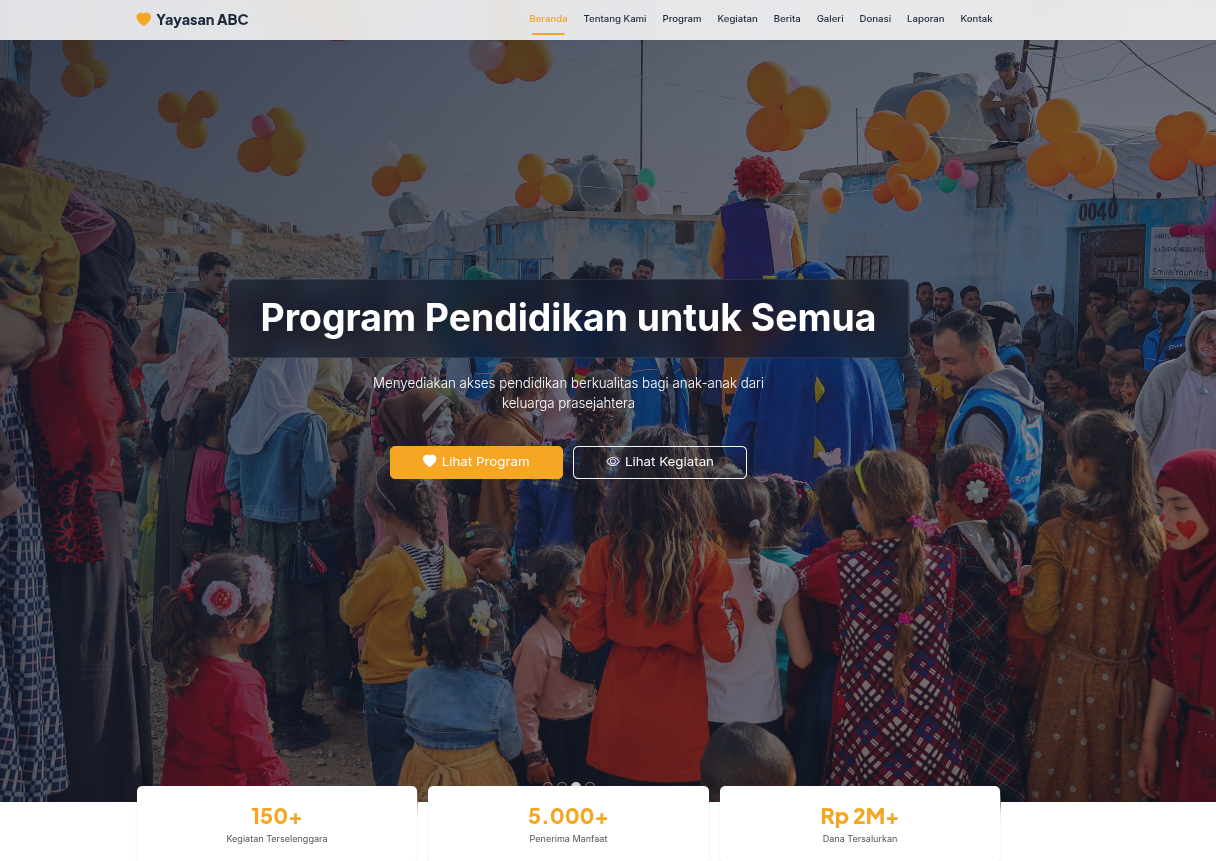
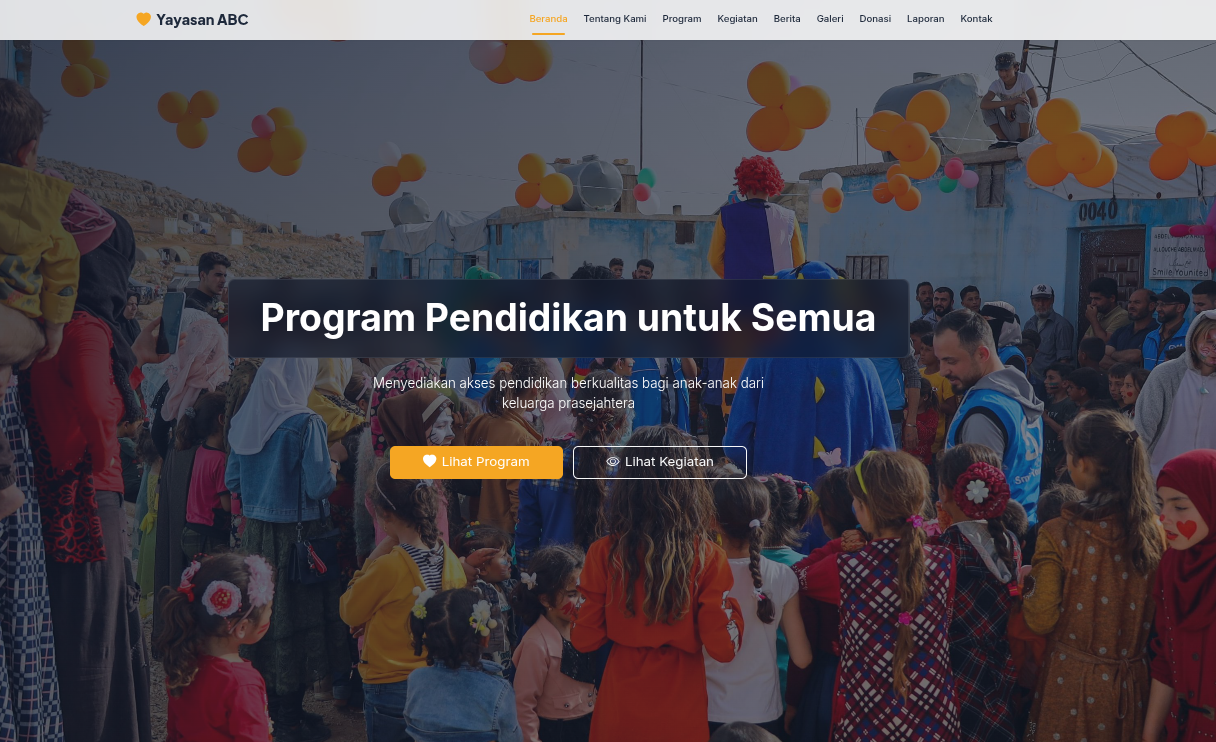
update web yayasan donasi

diff --git a/shop.html b/shop.html
@@ -81,8 +81,11 @@
     </div>
     <div class="shop-grid">
       <article class="shop-card shop-card--donation" data-tag-id="Yayasan" data-tag-en="Foundation" data-donation="true" data-feat-id="2 sisi: Publik + Admin CMS|4 role dengan hak akses|21 modul admin CRUD|Sistem donasi + verifikasi|Kalender kegiatan|Navigasi dinamis dari DB|Upload file (gambar, dokumen, bukti)|Docker-ready monorepo" data-feat-en="2 sides: Public + Admin CMS|4 roles with access control|21 admin CRUD modules|Donation system + verification|Activity calendar|Dynamic DB navigation|File upload (image, doc, proof)|Docker-ready monorepo">
-        <!-- Thumbnail gambar opsional: tambahkan data-img="assets/img/nama-file.jpg" pada .shop-thumb (atau nest <img class="shop-thumb-img">). Jika gambar tidak ada/gagal dimuat, thumbnail teks default tetap tampil. -->
-        <img class="shop-thumb-img" data-src="assets/img/web_yayasan.png" alt="Website Yayasan" loading="lazy">
+        <!-- Thumbnail gambar opsional: tambahkan data-img="assets/img/nama-file.jpg" pada .shop-thumb, atau nest <img class="shop-thumb-img" src="..."> (data-src juga didukung). Teks thumbnail harus berada di <span class="shop-thumb-text" data-id="..." data-en="..."> agar tidak terhapus i18n. Jika gambar tidak ada/gagal dimuat, thumbnail teks default tetap tampil. -->
+        <div class="shop-thumb">
+          <img class="shop-thumb-img" data-src="assets/img/web_yayasan.png" alt="Website Yayasan" loading="lazy">
+          <span class="shop-thumb-text" data-id="Website Yayasan" data-en="Nurul Jannah Foundation Web">Website Yayasan</span>
+        </div>
         <span class="shop-tag" data-id="Yayasan" data-en="Foundation">Yayasan</span>
         <h4 data-id="Website Yayasan" data-en="Nurul Jannah Foundation Web">Website Yayasan</h4>
         <p data-id="Sistem Informasi Manajemen Kegiatan Yayasan berbasis CodeIgniter 4. Donasi minimal Rp 50.000." data-en="Foundation Activity Management System based on CodeIgniter 4. Minimum donation Rp 50.000.">Sistem Informasi Manajemen Kegiatan Yayasan berbasis CodeIgniter 4. Donasi minimal Rp 50.000.</p>
@@ -96,7 +99,7 @@
         </div>
       </article>
       <article class="shop-card" data-tag-id="Sistem Kasir" data-tag-en="Cashier System" data-feat-id="Pencatatan penjualan & retur|Cetak struk A4/thermal|Laporan penjualan harian|Manajemen stok sederhana" data-feat-en="Sales & return logging|A4/thermal receipt printing|Daily sales reports|Simple stock management">
-        <div class="shop-thumb" data-id="POS Kasir Pro" data-en="POS Cashier Pro">POS Kasir Pro</div>
+        <div class="shop-thumb"><span class="shop-thumb-text" data-id="POS Kasir Pro" data-en="POS Cashier Pro">POS Kasir Pro</span></div>
         <span class="shop-tag" data-id="Sistem Kasir" data-en="Cashier System">Sistem Kasir</span>
         <h4 data-id="POS Kasir Pro" data-en="POS Cashier Pro">POS Kasir Pro</h4>
         <p data-id="Sistem kasir lengkap untuk toko, warung, dan UMKM dengan laporan harian." data-en="Complete cashier system for shops, stalls, and SMEs with daily reports.">Sistem kasir lengkap untuk toko, warung, dan UMKM dengan laporan harian.</p>
@@ -106,7 +109,7 @@
         </div>
       </article>
       <article class="shop-card" data-tag-id="Inventory" data-tag-en="Inventory" data-feat-id="Multi-gudang|Mutasi & transfer stok|Notifikasi stok menipis|Laporan nilai persediaan" data-feat-en="Multi-warehouse|Stock transfer & mutation|Low-stock alerts|Inventory value reports">
-        <div class="shop-thumb" data-id="Sistem Manajemen Inventori" data-en="Inventory Management System">Sistem Manajemen Inventori</div>
+        <div class="shop-thumb"><span class="shop-thumb-text" data-id="Sistem Manajemen Inventori" data-en="Inventory Management System">Sistem Manajemen Inventori</span></div>
         <span class="shop-tag" data-id="Inventory" data-en="Inventory">Inventory</span>
         <h4 data-id="Sistem Manajemen Inventori" data-en="Inventory Management System">Sistem Manajemen Inventori</h4>
         <p data-id="Kelola stok multi-gudang, mutasi barang, dan peringatan stok menipis." data-en="Manage multi-warehouse stock, item transfers, and low-stock alerts.">Kelola stok multi-gudang, mutasi barang, dan peringatan stok menipis.</p>
@@ -116,7 +119,7 @@
         </div>
       </article>
       <article class="shop-card" data-tag-id="Booking" data-tag-en="Booking" data-feat-id="Kalender jadwal|Notifikasi otomatis|Manajemen pelanggan|Integrasi WhatsApp" data-feat-en="Schedule calendar|Automatic notifications|Customer management|WhatsApp integration">
-        <div class="shop-thumb" data-id="Aplikasi Booking Online" data-en="Online Booking App">Aplikasi Booking Online</div>
+        <div class="shop-thumb"><span class="shop-thumb-text" data-id="Aplikasi Booking Online" data-en="Online Booking App">Aplikasi Booking Online</span></div>
         <span class="shop-tag" data-id="Booking" data-en="Booking">Booking</span>
         <h4 data-id="Aplikasi Booking Online" data-en="Online Booking App">Aplikasi Booking Online</h4>
         <p data-id="Reservasi jadwal untuk klinik, jasa, dan rental secara mandiri." data-en="Self-service schedule reservations for clinics, services, and rentals.">Reservasi jadwal untuk klinik, jasa, dan rental secara mandiri.</p>
@@ -126,7 +129,7 @@
         </div>
       </article>
       <article class="shop-card" data-tag-id="Pendidikan" data-tag-en="Education" data-feat-id="Input nilai & rapor|Presensi siswa|Jadwal pelajaran|Portal orang tua" data-feat-en="Grades & report cards|Student attendance|Class schedules|Parent portal">
-        <div class="shop-thumb" data-id="Sistem Akademik Sekolah" data-en="School Academic System">Sistem Akademik Sekolah</div>
+        <div class="shop-thumb"><span class="shop-thumb-text" data-id="Sistem Akademik Sekolah" data-en="School Academic System">Sistem Akademik Sekolah</span></div>
         <span class="shop-tag" data-id="Pendidikan" data-en="Education">Pendidikan</span>
         <h4 data-id="Sistem Akademik Sekolah" data-en="School Academic System">Sistem Akademik Sekolah</h4>
         <p data-id="Nilai, presensi, dan jadwal untuk guru, siswa, dan orang tua." data-en="Grades, attendance, and schedules for teachers, students, and parents.">Nilai, presensi, dan jadwal untuk guru, siswa, dan orang tua.</p>
@@ -136,7 +139,7 @@
         </div>
       </article>
       <article class="shop-card" data-tag-id="WebGIS" data-tag-en="WebGIS" data-feat-id="Peta interaktif|Input data spasial|Filter & pencarian lokasi|Export data" data-feat-en="Interactive map|Spatial data input|Location filter & search|Data export">
-        <div class="shop-thumb" data-id="Sistem WebGIS" data-en="WebGIS System">Sistem WebGIS</div>
+        <div class="shop-thumb"><span class="shop-thumb-text" data-id="Sistem WebGIS" data-en="WebGIS System">Sistem WebGIS</span></div>
         <span class="shop-tag" data-id="WebGIS" data-en="WebGIS">WebGIS</span>
         <h4 data-id="Sistem WebGIS" data-en="WebGIS System">Sistem WebGIS</h4>
         <p data-id="Peta interaktif berbasis lokasi untuk instansi, riset, dan usaha." data-en="Location-based interactive map for institutions, research, and business.">Peta interaktif berbasis lokasi untuk instansi, riset, dan usaha.</p>
@@ -146,7 +149,7 @@
         </div>
       </article>
       <article class="shop-card" data-tag-id="AI" data-tag-en="AI" data-feat-id="Analisis sentimen|Dashboard opini|Laporan otomatis|Integrasi media sosial" data-feat-en="Sentiment analysis|Opinion dashboard|Automatic reports|Social media integration">
-        <div class="shop-thumb" data-id="Chatbot AI Sentiment" data-en="AI Sentiment Chatbot">Chatbot AI Sentiment</div>
+        <div class="shop-thumb"><span class="shop-thumb-text" data-id="Chatbot AI Sentiment" data-en="AI Sentiment Chatbot">Chatbot AI Sentiment</span></div>
         <span class="shop-tag" data-id="AI" data-en="AI">AI</span>
         <h4 data-id="Chatbot AI Sentiment" data-en="AI Sentiment Chatbot">Chatbot AI Sentiment</h4>
         <p data-id="Analisis opini publik dan chatbot otomatis berbasis AI." data-en="Public opinion analysis and an AI-powered automated chatbot.">Analisis opini publik dan chatbot otomatis berbasis AI.</p>
@@ -179,7 +182,7 @@
     </div>
     <div class="shop-grid">
       <article class="shop-card" data-tag-id="Website" data-tag-en="Website" data-feat-id="Desain responsif|Manajemen konten|SEO dasar|Kecepatan tinggi" data-feat-en="Responsive design|Content management|Basic SEO|High performance">
-        <div class="shop-thumb" data-id="Website Company Profile" data-en="Company Profile Website">Website Company Profile</div>
+        <div class="shop-thumb"><span class="shop-thumb-text" data-id="Website Company Profile" data-en="Company Profile Website">Website Company Profile</span></div>
         <span class="shop-tag" data-id="Website" data-en="Website">Website</span>
         <h4 data-id="Website Company Profile" data-en="Company Profile Website">Website Company Profile</h4>
         <p data-id="Profil perusahaan modern, cepat, dan mudah dikelola sendiri." data-en="Modern, fast company profile that is easy to manage yourself.">Profil perusahaan modern, cepat, dan mudah dikelola sendiri.</p>
@@ -189,7 +192,7 @@
         </div>
       </article>
       <article class="shop-card" data-tag-id="Sistem Kasir" data-tag-en="Cashier System" data-feat-id="Pencatatan transaksi|Struk sederhana|Laporan harian|Ringan & cepat" data-feat-en="Transaction logging|Simple receipt|Daily reports|Lightweight & fast">
-        <div class="shop-thumb" data-id="Kasir UMKM Lite" data-en="SME Cashier Lite">Kasir UMKM Lite</div>
+        <div class="shop-thumb"><span class="shop-thumb-text" data-id="Kasir UMKM Lite" data-en="SME Cashier Lite">Kasir UMKM Lite</span></div>
         <span class="shop-tag" data-id="Sistem Kasir" data-en="Cashier System">Sistem Kasir</span>
         <h4 data-id="Kasir UMKM Lite" data-en="SME Cashier Lite">Kasir UMKM Lite</h4>
         <p data-id="Kasir ringan untuk warung, kios, dan toko kecil." data-en="Lightweight cashier for stalls, kiosks, and small shops.">Kasir ringan untuk warung, kios, dan toko kecil.</p>
@@ -199,7 +202,7 @@
         </div>
       </article>
       <article class="shop-card" data-tag-id="AI" data-tag-en="AI" data-feat-id="Rekomendasi cerdas|Filter kategori|Analitik pembelian|Integrasi toko online" data-feat-en="Smart recommendations|Category filters|Purchase analytics|Online store integration">
-        <div class="shop-thumb" data-id="Sistem Rekomendasi Produk" data-en="Product Recommendation System">Sistem Rekomendasi Produk</div>
+        <div class="shop-thumb"><span class="shop-thumb-text" data-id="Sistem Rekomendasi Produk" data-en="Product Recommendation System">Sistem Rekomendasi Produk</span></div>
         <span class="shop-tag" data-id="AI" data-en="AI">AI</span>
         <h4 data-id="Sistem Rekomendasi Produk" data-en="Product Recommendation System">Sistem Rekomendasi Produk</h4>
         <p data-id="Rekomendasi cerdas untuk meningkatkan penjualan toko online." data-en="Smart recommendations to increase online store sales.">Rekomendasi cerdas untuk meningkatkan penjualan toko online.</p>
@@ -209,7 +212,7 @@
         </div>
       </article>
       <article class="shop-card" data-tag-id="Website" data-tag-en="Website" data-feat-id="Tema siap pakai|Menu & profil|Formulir kontak|Mudah diubah" data-feat-en="Ready-made theme|Menu & profile|Contact form|Easy to customize">
-        <div class="shop-thumb" data-id="Template Website Sekolah" data-en="School Website Template">Template Website Sekolah</div>
+        <div class="shop-thumb"><span class="shop-thumb-text" data-id="Template Website Sekolah" data-en="School Website Template">Template Website Sekolah</span></div>
         <span class="shop-tag" data-id="Website" data-en="Website">Website</span>
         <h4 data-id="Template Website Sekolah" data-en="School Website Template">Template Website Sekolah</h4>
         <p data-id="Template siap pakai untuk profil sekolah dan madrasah." data-en="Ready-made template for school and madrasah profiles.">Template siap pakai untuk profil sekolah dan madrasah.</p>

diff --git a/assets/shop.js b/assets/shop.js
@@ -25,6 +25,7 @@
   }
   function priceOf(card){ return card.querySelector('.price').textContent.trim(); }
   function nameOf(card){ return card.querySelector('h4').getAttribute('data-' + lang()); }
+  function thumbTextOf(thumb){ const el = thumb.querySelector('.shop-thumb-text'); return el ? el.getAttribute('data-' + lang()) : (thumb.getAttribute('data-' + lang()) || ''); }
   function orderFrom(card){
     const name = nameOf(card);
     const price = priceOf(card);
@@ -37,9 +38,9 @@
     const cardThumb = card.querySelector('.shop-thumb');
     mThumb.classList.remove('has-img');
     mThumb.innerHTML = '';
-    const thumbSrc = cardThumb.dataset.img || (cardThumb.querySelector('img') && cardThumb.querySelector('img').getAttribute('src'));
-    const thumbImgEl = cardThumb.querySelector('img');
-    const loadedImg = thumbImgEl && thumbImgEl.naturalWidth > 0 ? thumbImgEl : null;
+    const thumbImg = cardThumb.querySelector('img');
+    const thumbSrc = (cardThumb.dataset && cardThumb.dataset.img) || (thumbImg && (thumbImg.getAttribute('src') || thumbImg.dataset.src));
+    const loadedImg = thumbImg && thumbImg.naturalWidth > 0 ? thumbImg : null;
     if(loadedImg){
       const mImg = document.createElement('img');
       mImg.className = 'modal-thumb-img';
@@ -50,13 +51,13 @@
     } else if(thumbSrc){
       const mImg = document.createElement('img');
       mImg.className = 'modal-thumb-img';
-      mImg.alt = cardThumb.getAttribute('data-' + l) || '';
+      mImg.alt = thumbTextOf(cardThumb) || '';
       mImg.addEventListener('load', () => mThumb.classList.add('has-img'));
-      mImg.addEventListener('error', () => { mImg.remove(); mThumb.textContent = cardThumb.getAttribute('data-' + l); });
+      mImg.addEventListener('error', () => { mImg.remove(); mThumb.textContent = thumbTextOf(cardThumb); });
       mThumb.appendChild(mImg);
       mImg.src = thumbSrc;
     } else {
-      mThumb.textContent = cardThumb.getAttribute('data-' + l);
+      mThumb.textContent = thumbTextOf(cardThumb);
     }
     mTag.textContent = card.querySelector('.shop-tag').getAttribute('data-' + l);
     mName.textContent = nameOf(card);
@@ -91,14 +92,15 @@
     if(mBuy) mBuy.addEventListener('click', closeModal);
   }
 
-  // Thumbnail image support (optional): add data-img="path" to .shop-thumb or nest an <img>.
-  // If the image is missing/fails to load, the default text thumbnail remains.
+  // Thumbnail image support (optional): add data-img="path" to .shop-thumb or nest an <img>
+  // (src or data-src). If the image is missing/fails to load, the default text thumbnail remains.
+  // Note: .shop-thumb itself must NOT carry data-id/data-en (main.js i18n would wipe children).
   document.querySelectorAll('.shop-thumb').forEach(thumb => {
     const dataSrc = thumb.dataset.img;
     if(dataSrc){
       const img = document.createElement('img');
       img.className = 'shop-thumb-img';
-      img.alt = thumb.getAttribute('data-' + (document.documentElement.getAttribute('lang') || 'id')) || '';
+      img.alt = thumbTextOf(thumb) || '';
       img.loading = 'lazy';
       const onLoad = () => thumb.classList.add('has-img');
       const onErr = () => { img.remove(); thumb.classList.remove('has-img'); };
@@ -108,10 +110,21 @@
       img.src = dataSrc;
     }
     thumb.querySelectorAll('img').forEach(img => {
+      // Support lazy-load style: data-src instead of src
+      if(!img.getAttribute('src') && img.dataset.src){
+        const onLoad = () => thumb.classList.add('has-img');
+        const onErr = () => { img.remove(); thumb.classList.remove('has-img'); };
+        img.addEventListener('load', onLoad, {once:true});
+        img.addEventListener('error', onErr, {once:true});
+        img.src = img.dataset.src;
+        return;
+      }
       const onLoad = () => thumb.classList.add('has-img');
       const onErr = () => { img.remove(); thumb.classList.remove('has-img'); };
-      if(img.complete){
-        if(img.naturalWidth > 0) onLoad(); else onErr();
+      if(img.complete && img.naturalWidth > 0){
+        onLoad();
+      } else if(img.complete && img.naturalWidth === 0 && img.loading !== 'lazy'){
+        onErr();
       } else {
         img.addEventListener('load', onLoad, {once:true});
         img.addEventListener('error', onErr, {once:true});

diff --git a/assets/style.css b/assets/style.css
@@ -273,8 +273,8 @@ section{padding:44px 0; border-bottom:1px solid var(--border);}
 .shop-thumb img, .shop-thumb .shop-thumb-img{
   position:absolute; inset:0; width:100%; height:100%; object-fit:cover; z-index:0; display:block;
 }
-.shop-thumb.has-img, .shop-thumb:has(img){ color:transparent; }
-.shop-thumb.has-img img, .shop-thumb:has(img) img{ z-index:1; }
+.shop-thumb.has-img .shop-thumb-text{ display:none; }
+.shop-thumb.has-img img{ z-index:1; }
 .shop-card h4{font-family:var(--font-display); font-weight:500; font-size:15.5px; margin-bottom:5px;}
 .shop-card p{color:var(--text-muted); font-size:12.5px; margin-bottom:14px;}
 .shop-foot{display:flex; justify-content:space-between; align-items:center;}
@@ -284,7 +284,7 @@ section{padding:44px 0; border-bottom:1px solid var(--border);}
 
 /* --- Donation card (Web Yayasan) --- */
 .shop-card--donation{border:2px solid #F5A623; position:relative;}
-.shop-card--donation::before{content:'DONASI'; position:absolute; top:12px; right:12px; background:#F5A623; color:#000; font-size:10px; font-weight:700; padding:3px 8px; border-radius:2px; z-index:1; font-family:var(--font-mono); letter-spacing:.05em;}
+.shop-card--donation::before{content:'DONASI'; position:absolute; top:12px; right:12px; background:#F5A623; color:#000; font-size:10px; font-weight:700; padding:3px 8px; border-radius:2px; z-index:3; font-family:var(--font-mono); letter-spacing:.05em;}
 .donation-amount{margin:12px 0;}
 .donation-amount label{display:block; font-size:12px; font-weight:600; margin-bottom:6px; color:var(--text-muted);}
 .donation-input-field{width:100%; padding:8px 12px; border:1px solid var(--border); border-radius:2px; font-size:13px; background:var(--bg); color:var(--text); font-family:var(--font-mono);}
@@ -302,7 +302,7 @@ section{padding:44px 0; border-bottom:1px solid var(--border);}
 .modal-close:hover{border-color:var(--text-muted);}
 .modal-thumb{aspect-ratio:16/9; margin-bottom:16px; border-radius:2px; background:linear-gradient(135deg, var(--card-ph-1), var(--card-ph-2)); border:1px solid var(--border); display:flex; align-items:center; justify-content:center; font-family:var(--font-display); font-weight:500; font-size:18px; color:var(--text-muted); text-align:center; padding:0 16px; position:relative; overflow:hidden;}
 .modal-thumb img, .modal-thumb .modal-thumb-img{position:absolute; inset:0; width:100%; height:100%; object-fit:cover; z-index:0; display:block;}
-.modal-thumb.has-img, .modal-thumb:has(img){color:transparent;}
+.modal-thumb.has-img{color:transparent;}
 .modal-panel h3{font-family:var(--font-display); font-weight:500; font-size:22px; margin:8px 0 8px; letter-spacing:-0.01em;}
 .modal-panel > p{color:var(--text-muted); font-size:14px; margin-bottom:20px;}
 .modal-feats-label{font-family:var(--font-mono); font-size:10.5px; letter-spacing:.07em; color:var(--text-muted); margin-bottom:10px;}
